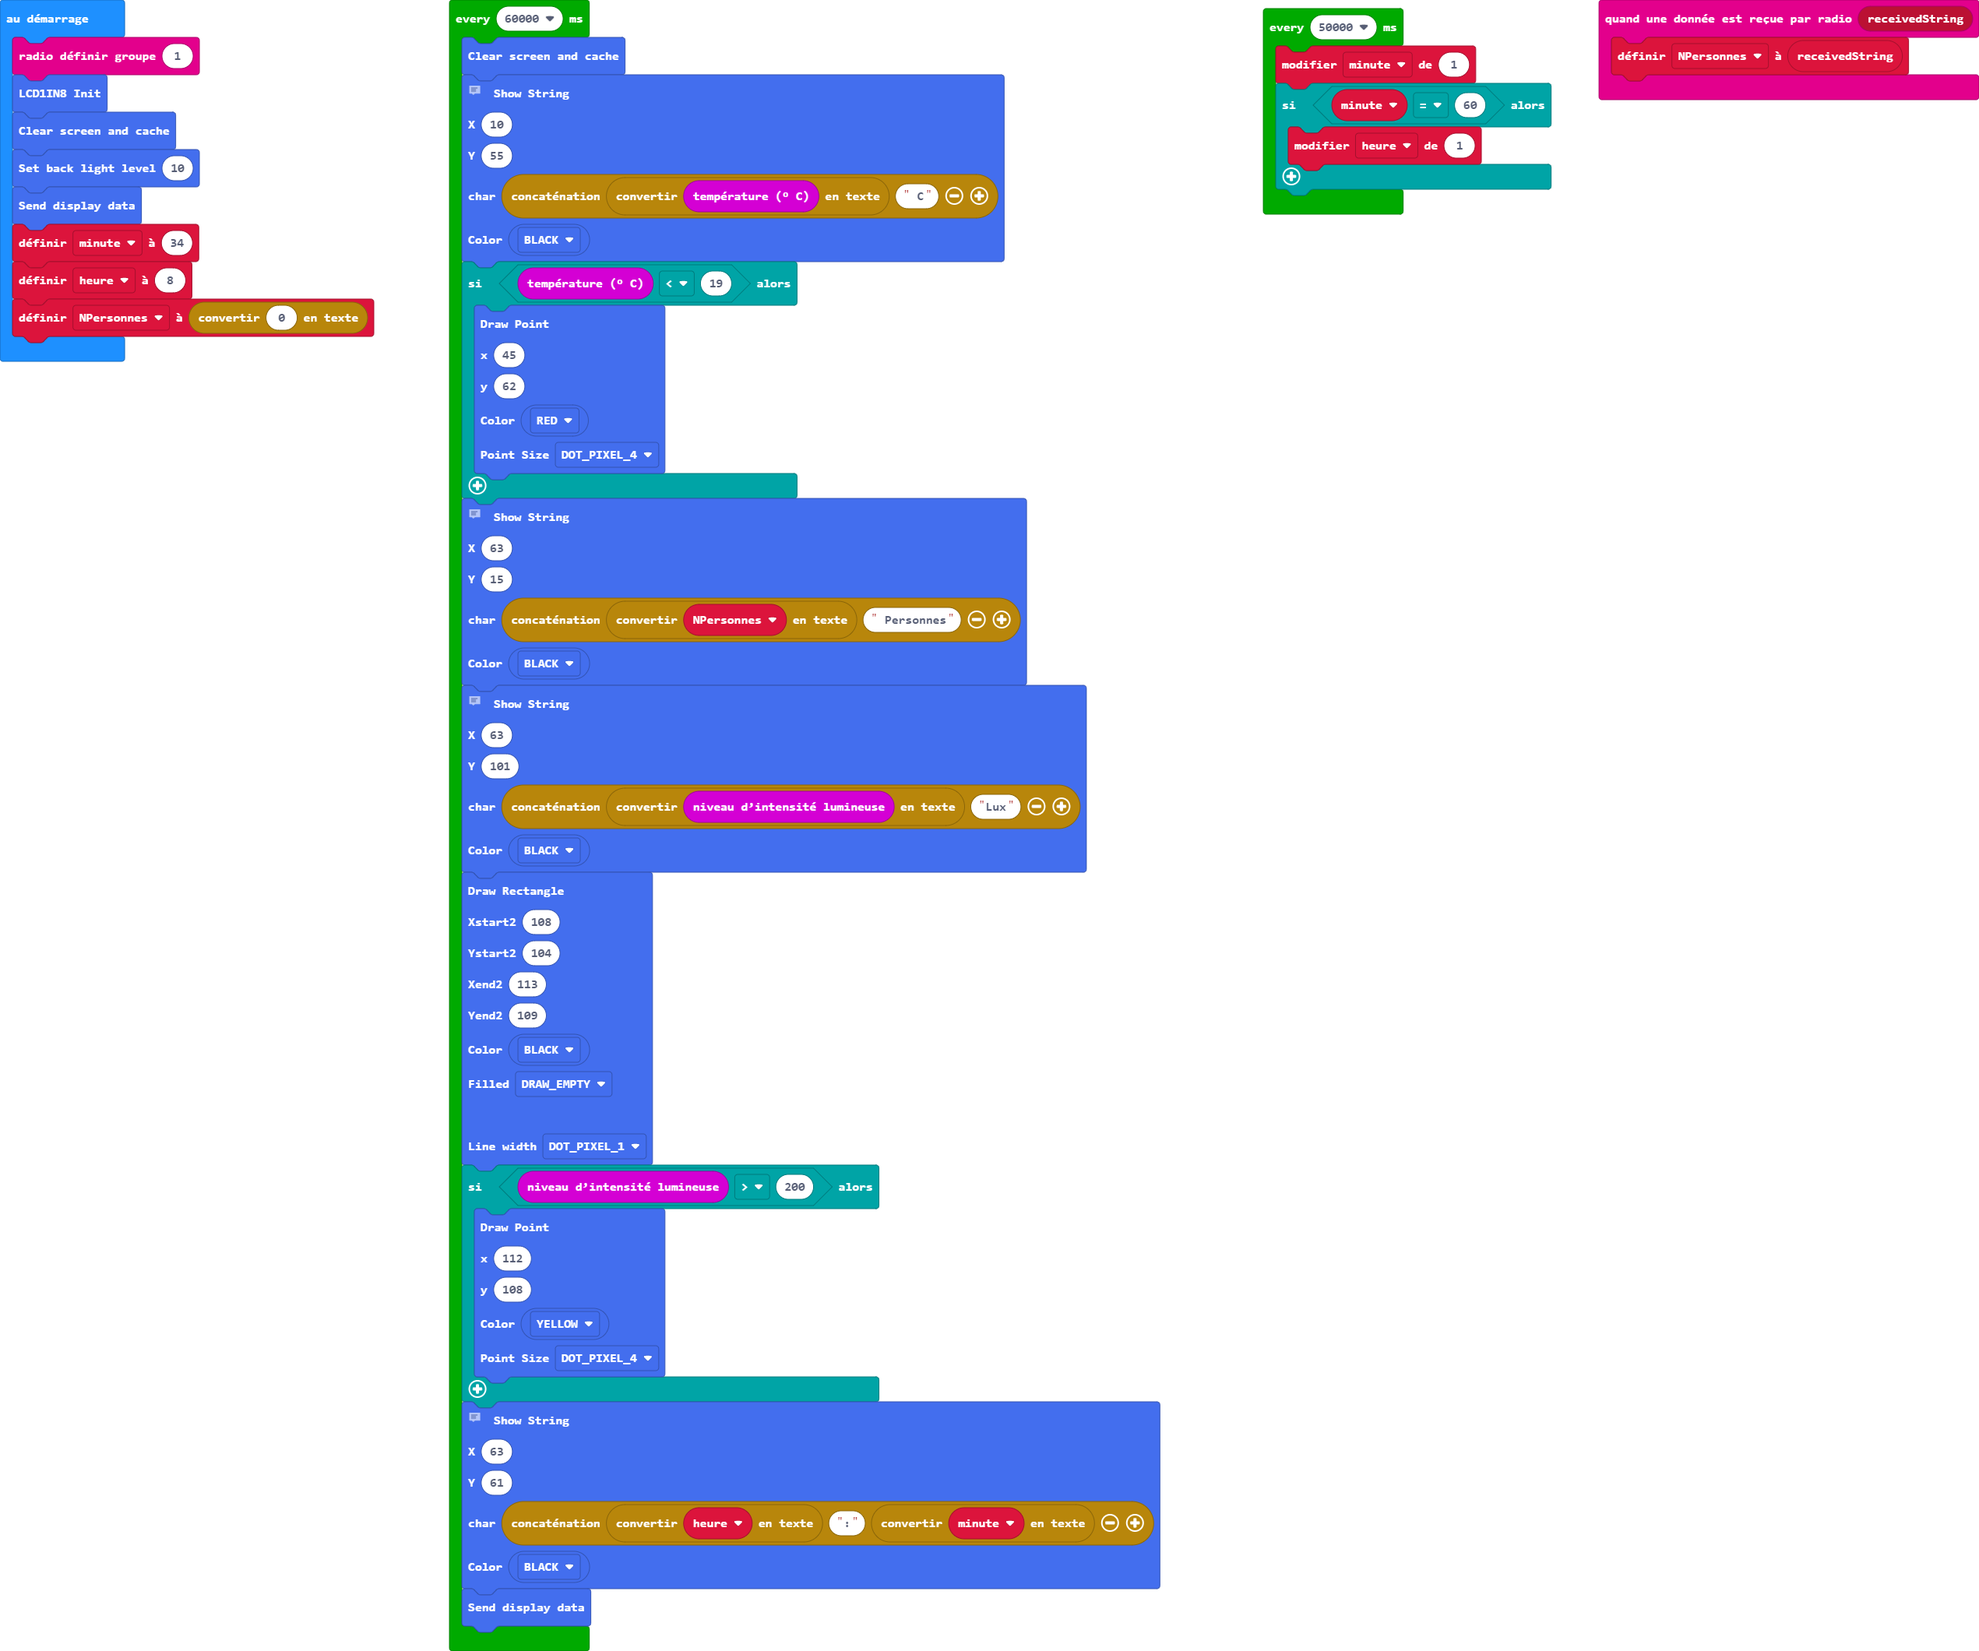
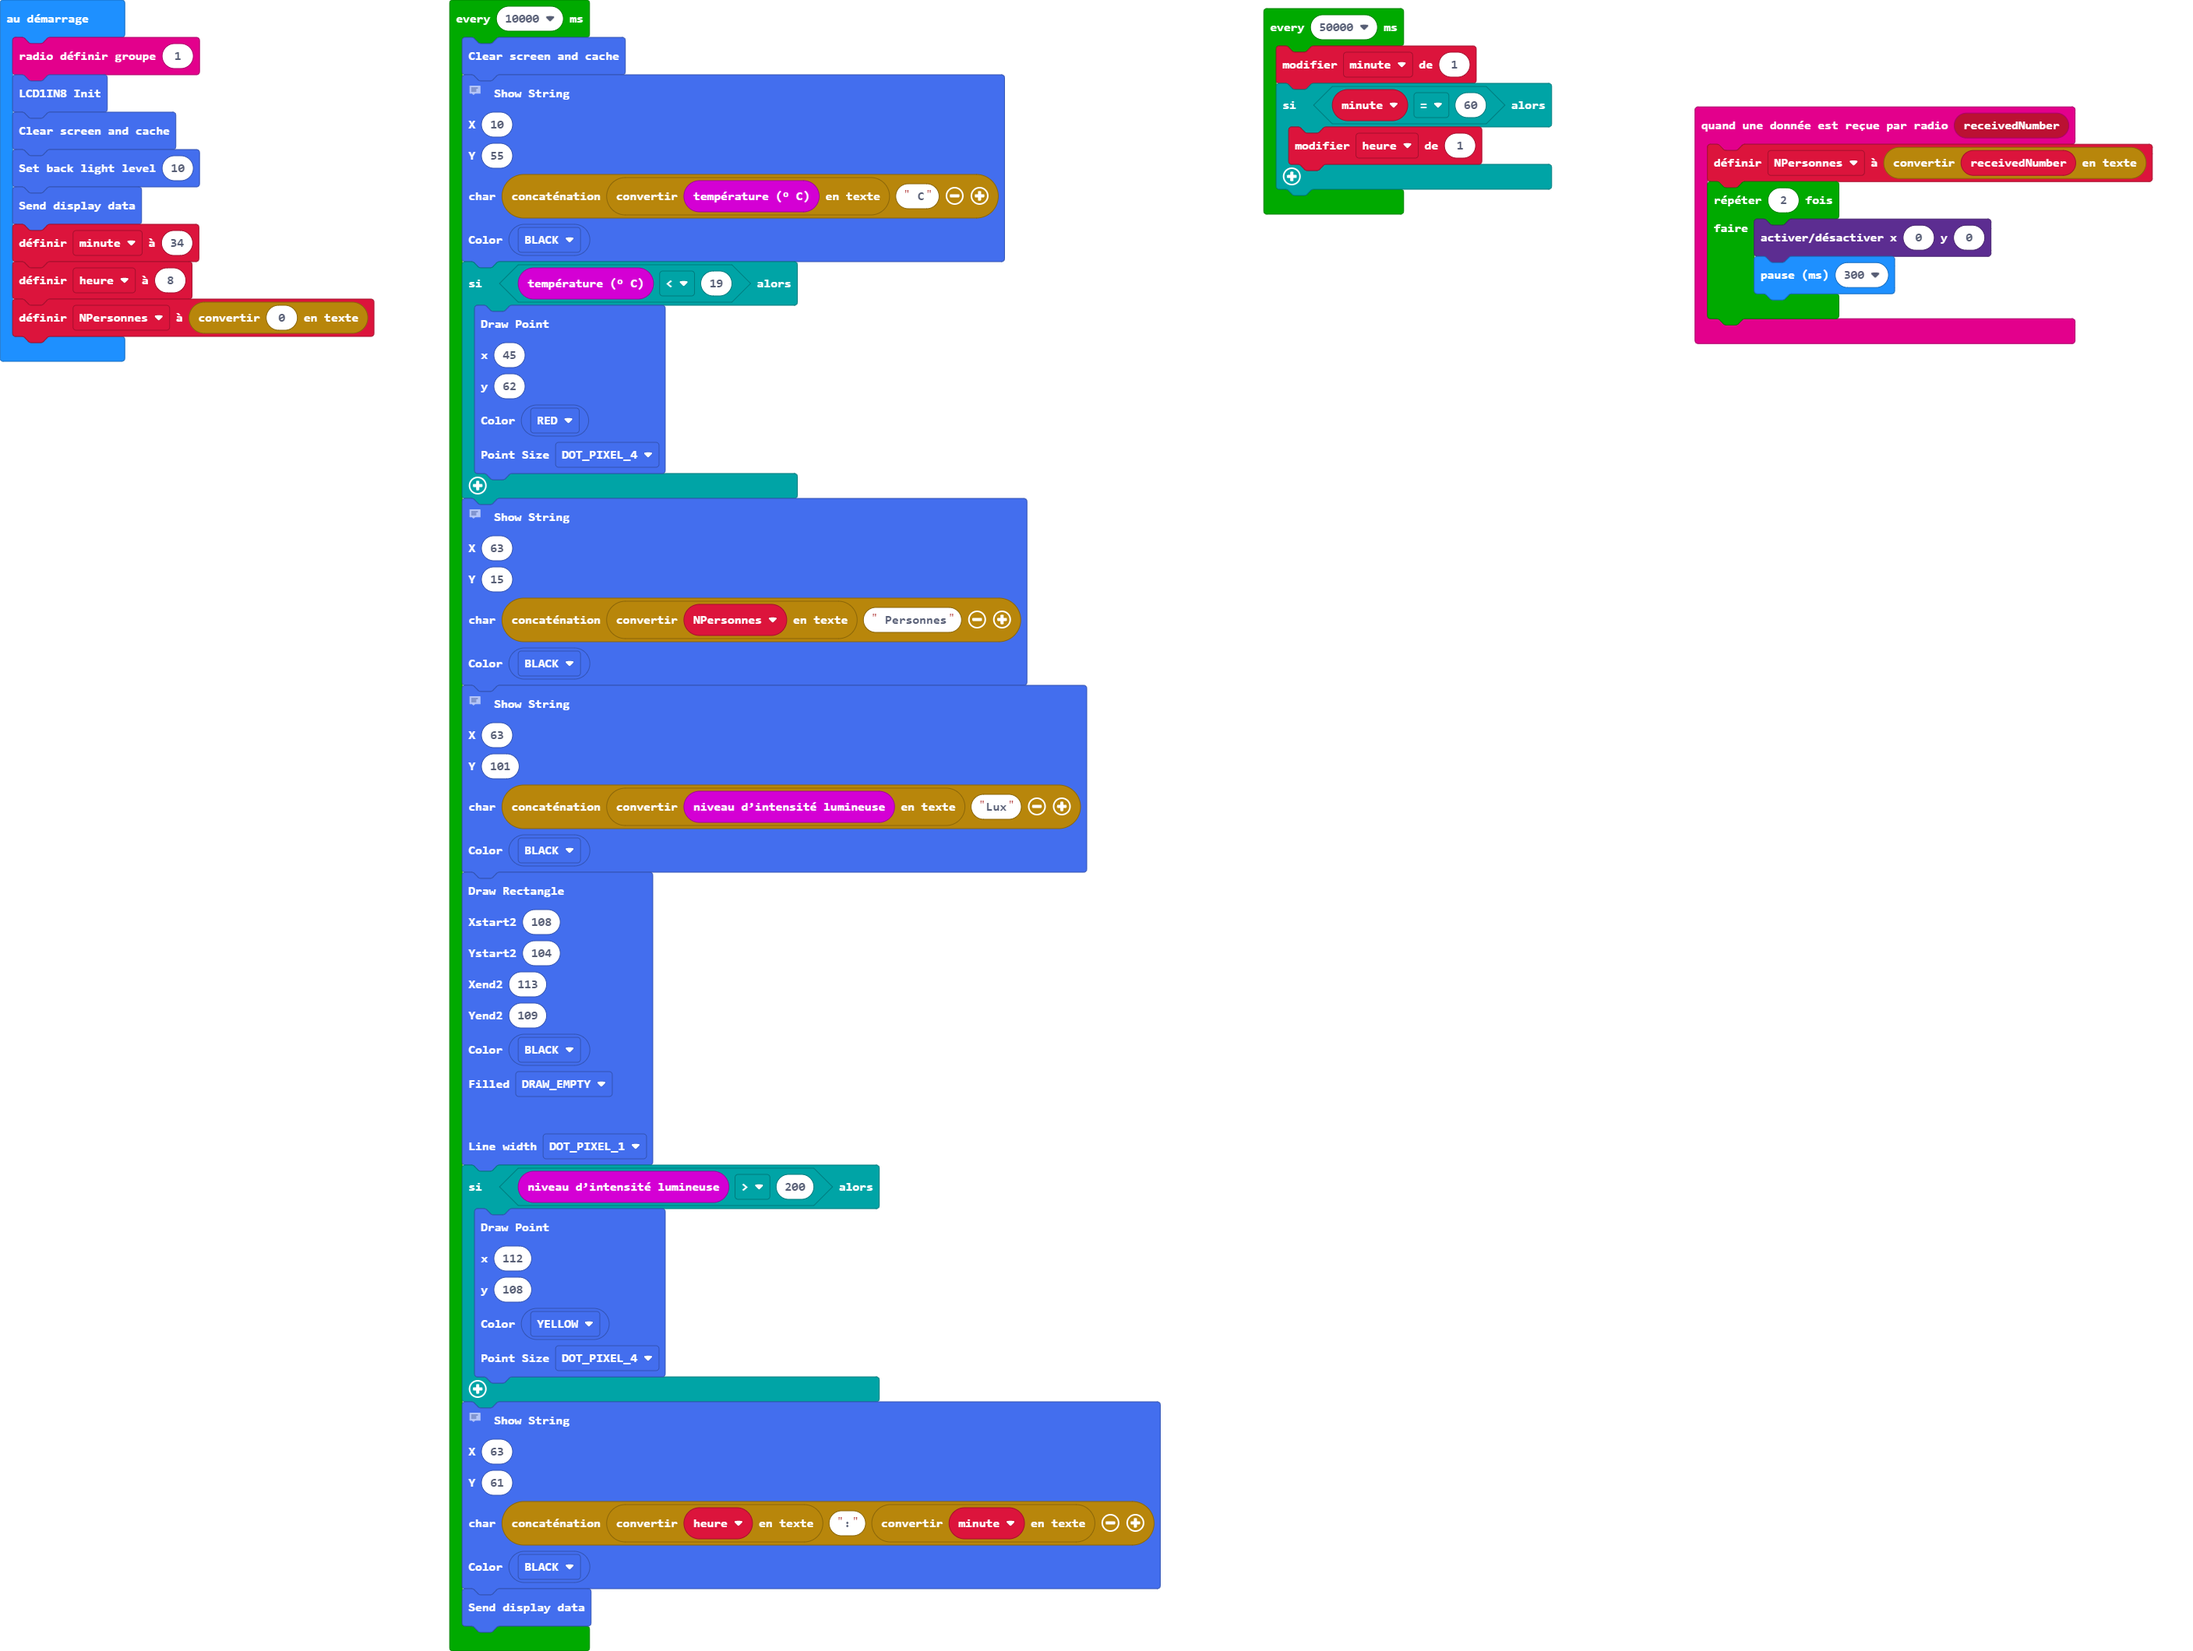
ajout connection radio

diff --git a/main.ts b/main.ts
@@ -1,5 +1,9 @@
-radio.onReceivedString(function (receivedString) {
-    NPersonnes = receivedString
+radio.onReceivedNumber(function (receivedNumber) {
+    NPersonnes = convertToText(receivedNumber)
+    for (let index = 0; index < 2; index++) {
+        led.toggle(0, 0)
+        basic.pause(300)
+    }
 })
 let NPersonnes = ""
 radio.setGroup(1)
@@ -16,7 +20,7 @@ loops.everyInterval(50000, function () {
         heure += 1
     }
 })
-loops.everyInterval(60000, function () {
+loops.everyInterval(10000, function () {
     LCD1IN8.LCD_Clear()
     // Affichage de la temperature
     LCD1IN8.DisString(
